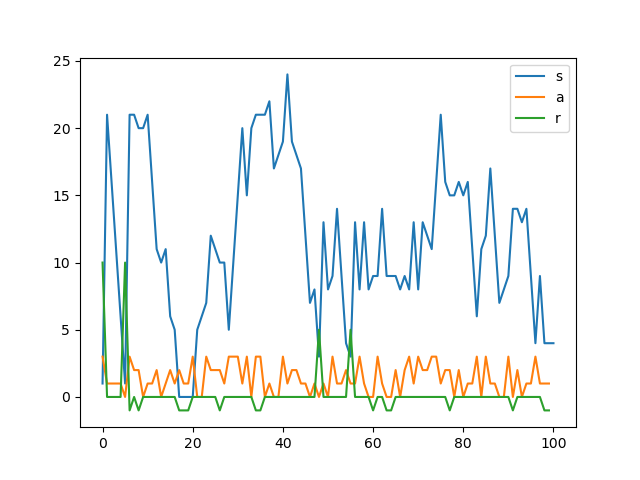
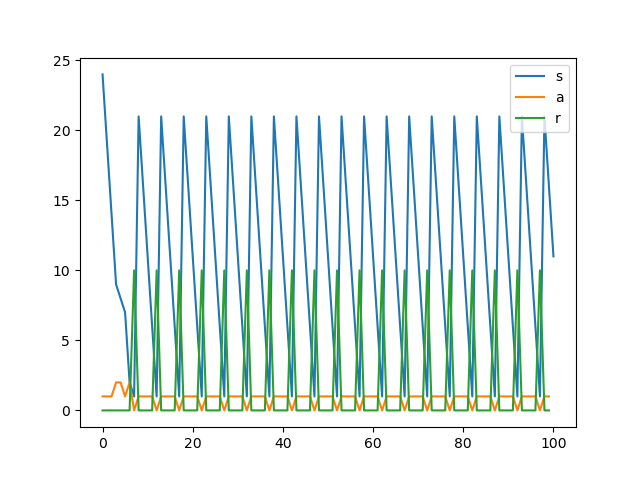
Added policy iteration

diff --git a/policy_iteration_gridworld.py b/policy_iteration_gridworld.py
@@ -1,0 +1,241 @@
+# %%
+import random
+import numpy as np
+import matplotlib.pyplot as plt
+import gridworld
+import copy
+
+
+def plot_gridworld(V,policy,shape):
+    """
+    Args:
+        V (numpy array): 1D numpy array showing the value function for each state s, V[s]
+        policy (numpy array): 2D numpy array that gives the probability of choosing an action a at each state, policy[s,a]
+        shape (tuple(int)): The shape of the gridworld
+    Ouput:
+        A plot showing the value function and policy decisions in a gridworld
+        """
+    #Reshape the V and policy into grids for easy plotting
+    V_grid = V.reshape(shape)
+    shape = V_grid.shape
+    policy_grid = policy.reshape(shape+(-1,))
+    #Plot value estimate as an image using plt.imshow()
+    plt.figure()    
+    plt.subplot(1,2,1)
+    plt.imshow(V_grid,cmap='hot')
+    ax = plt.gca()
+    # Major ticks
+    ax.set_xticks(np.arange(0, shape[0], 1))
+    ax.set_yticks(np.arange(0, shape[1], 1))
+    # Labels for major ticks
+    ax.set_xticklabels(np.arange(1, shape[0]+1, 1))
+    ax.set_yticklabels(np.arange(1, shape[1]+1, 1))
+    # Minor ticks
+    ax.set_xticks(np.arange(-.5, shape[0], 1), minor=True)
+    ax.set_yticks(np.arange(-.5, shape[1], 1), minor=True)
+    # Gridlines based on minor ticks
+    ax.grid(which='minor', color='w', linestyle='-', linewidth=2)
+    # Remove minor ticks
+    ax.tick_params(which='minor', bottom=False, left=False)
+    #plot value text in grid
+    Vrange = max(V)-min(V)
+    minV = min(V)
+    for (x,y), val in np.ndenumerate(V_grid):
+        #change font color if background too dark
+        c="black" if val-minV>Vrange/10 else "white"
+        #plot value at grid location
+        ax.text(y,x,"%.2f"%val,
+                color=c,
+                horizontalalignment="center",
+                verticalalignment="center")
+        
+    #Plot policy directions
+    plt.subplot(1,2,2)
+    ax = plt.gca()
+    # Major ticks
+    ax.set_xticks(np.arange(0, shape[0], 1))
+    ax.set_yticks(np.arange(0, shape[1], 1))
+    # Labels for major ticks
+    ax.set_xticklabels(np.arange(1, shape[0]+1, 1))
+    ax.set_yticklabels(np.arange(1, shape[1]+1, 1))
+    # Minor ticks
+    ax.set_xticks(np.arange(-.5, shape[0], 1), minor=True)
+    ax.set_yticks(np.arange(-.5, shape[1], 1), minor=True)
+    # Gridlines based on minor ticks
+    ax.grid(which='minor', color='b', linestyle='-', linewidth=2)
+    # Remove minor ticks
+    ax.tick_params(which='minor', bottom=False, left=False)
+    #plot arrows for each action with any probability
+    for (x,y,a), prob in np.ndenumerate(policy_grid):
+        if a==0:
+            #point right
+            dx=0.1
+            dy=0
+        elif a==1:
+            #point up
+            dx = 0
+            dy = 0.1
+        elif a==2:
+            #point left
+            dx = -0.1
+            dy = 0
+        else:
+            #point down
+            dx = 0
+            dy = -0.1
+        if prob>0:
+            #if action has probability of ocurring under policy, plot its arrow
+            plt.arrow(y,5-x,dx,dy,head_width = .1)
+    plt.draw()
+
+
+def Bellman(env,policy,V,s,discount):
+    """
+    Args:
+        env (GridWorld object): The MDP environment object provided by gridworld.py
+        policy(numpy.array): a numpy 2D array where the 1st dimension indicates the state index and the 2nd indicates the action taken. The array stores the probability of taking each action in the corresponding state.
+        V (numpy array): The current estimate for state-values
+        s (int): the current state to be evaluated
+        discount (float): discount factor for the bellman equations from 0-1
+    Returns:
+        The state value estimate for the current state V[s]
+    """
+    #create state and action list
+    states = np.arange(0,env.num_states,dtype=int)
+    actions = np.arange(0,env.num_actions,dtype=int)
+    V[s] = 0
+    for a in actions:
+        for s1 in  states:
+            r_s_a = env.r(s,a)      #reward of action in state
+            p_s1_s_a = env.p(s1,s,a)   #probability of moving into state s1 given current state s and action a
+            pi_s_a = policy[s,a]    #probability of choosing the action a in state s
+            V[s] += pi_s_a*p_s1_s_a*(r_s_a+discount*V[s1])
+    return V[s]
+
+def policy_evaluation(env, policy=None, discount=0.95, tol = 1e-3):
+    """
+    Args:
+        env (GridWorld object): The MDP environment object provided by gridworld.py
+        policy(numpy.array): a numpy 2D array where the 1st dimension indicates the state index and the 2nd indicates the action taken. The array stores the probability of taking each action in the corresponding state.
+        discount (float): discount factor for the bellman equations from 0-1
+        tol (float): tolerance that maximum error must meet to halt evaluation. tol<<1
+    Returns:
+        The converged state estimate for the given policy
+    """
+    if policy is None:
+        #generate uniform policy
+        policy = np.ones([env.num_states,env.num_actions],dtype=float)*1/env.num_actions
+    
+    #create state and action list
+    states = np.arange(0,env.num_states,dtype=int)
+    #initialize state-value estimate
+    V = np.zeros(env.num_states,dtype=float)
+
+    #initialize delta to infinity
+    delta = np.Inf
+    #run policy evaluation until delta is smaller than tolerance
+    while delta>tol:
+        delta = 0               #maximum per state error
+        for s in states:
+            v = V[s]            #store previous estimate
+            V[s] = Bellman(env,policy,V,s,discount) # calculate next estimate with Bellman eq
+            delta = np.max([delta,np.abs(v-V[s])])  # store delta between old and new if largest delta so far
+    return V
+
+def new_policy(env,V,s,discount):
+    """
+    Args:
+    Returns:
+    """
+    states = np.arange(0,env.num_states)
+    actions = np.arange(0,env.num_actions)
+    best_actions = []
+    old_val = None
+    for a in actions:
+        val = 0
+        for s1 in states:
+            val+=env.p(s1,s,a)*(env.r(s,a)+discount*V[s1])
+        if old_val is None:
+            best_actions = [a]
+            old_val = val
+        elif val>old_val:
+            best_actions = [a]
+            old_val=val
+        elif val == old_val:
+            best_actions.append(a)
+    
+    #generate new policy from the best action
+    new_p = 1/len(best_actions)
+    new_policy = [new_p if a in best_actions else 0 for a in actions]
+    return new_policy
+        
+
+def policy_improvement(env,V,policy,discount):
+    """
+    Args:
+        env
+        V
+        policy
+        discount
+    """
+    #get actions and states list
+    states = np.arange(0,env.num_states,dtype=int)
+    policy_is_stable = True
+    for s in states:
+        old_policy = copy.deepcopy(policy[s])
+        policy[s] = new_policy(env,V,s,discount)
+        if not np.array_equal(old_policy,policy[s]):
+            policy_is_stable = False
+    return (policy, policy_is_stable)
+
+def main():
+    #parameters
+    discount = 0.95
+    tol = 1e-3
+    # Create environment
+    env = gridworld.GridWorld(hard_version=False)
+
+    # Initialize simulation
+    s = env.reset()
+    count = 0
+    policy_is_stable = False
+    policy = np.ones([env.num_states,env.num_actions],dtype=float)*1/env.num_actions
+    while not policy_is_stable:
+        #loop through policy eval and policy improvement until policy stabilizes
+        V = policy_evaluation(env, policy, discount, tol)
+        # if count==0:
+        #     plot_gridworld(V,policy,[5,-1])
+        policy, policy_is_stable = policy_improvement(env,V, policy, discount)
+        count+=1
+
+    plot_gridworld(V,policy,[5,-1])
+    plt.show()
+    # Create log to store data from simulation
+    log = {
+        't': [0],
+        's': [s],
+        'a': [],
+        'r': [],
+    }
+
+    # Simulate until episode is done
+    done = False
+    while not done:
+        a = np.argmax(policy[s])
+        (s, r, done) = env.step(a)
+        log['t'].append(log['t'][-1] + 1)
+        log['s'].append(s)
+        log['a'].append(a)
+        log['r'].append(r)
+
+    # Plot data and save to png file
+    plt.plot(log['t'], log['s'])
+    plt.plot(log['t'][:-1], log['a'])
+    plt.plot(log['t'][:-1], log['r'])
+    plt.legend(['s', 'a', 'r'])
+    plt.savefig('figures/gridworld/test_gridworld.png')
+
+
+if __name__ == '__main__':
+    main()
+# %%

diff --git a/test_gridworld.py b/test_gridworld.py
@@ -1,3 +1,4 @@
+# %%
 import random
 import numpy as np
 import matplotlib.pyplot as plt
@@ -38,3 +39,5 @@ def main():
 
 if __name__ == '__main__':
     main()
+
+# %%
